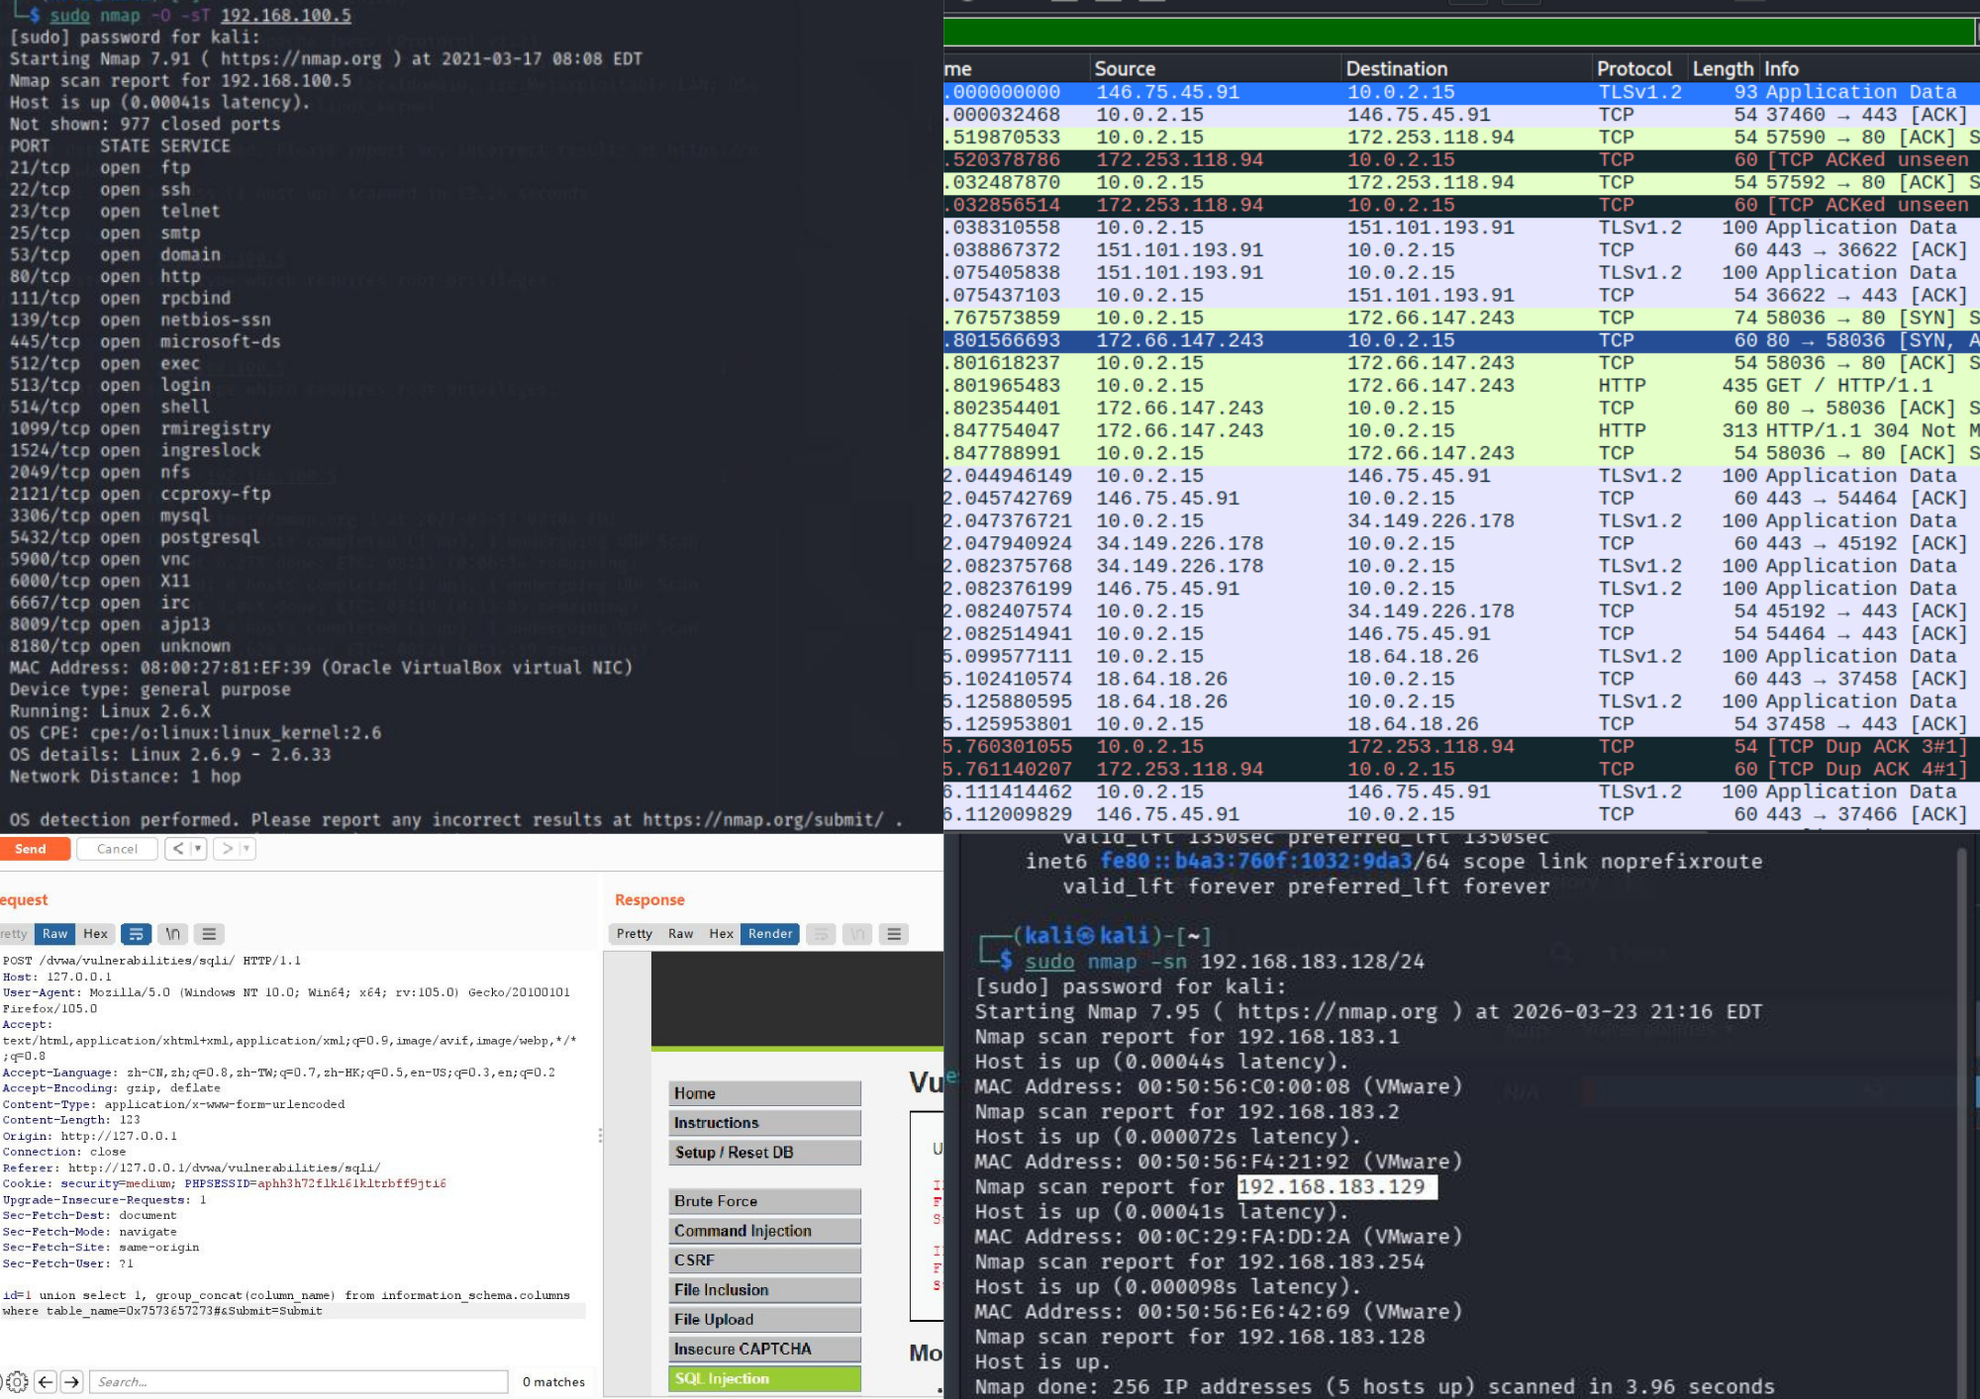
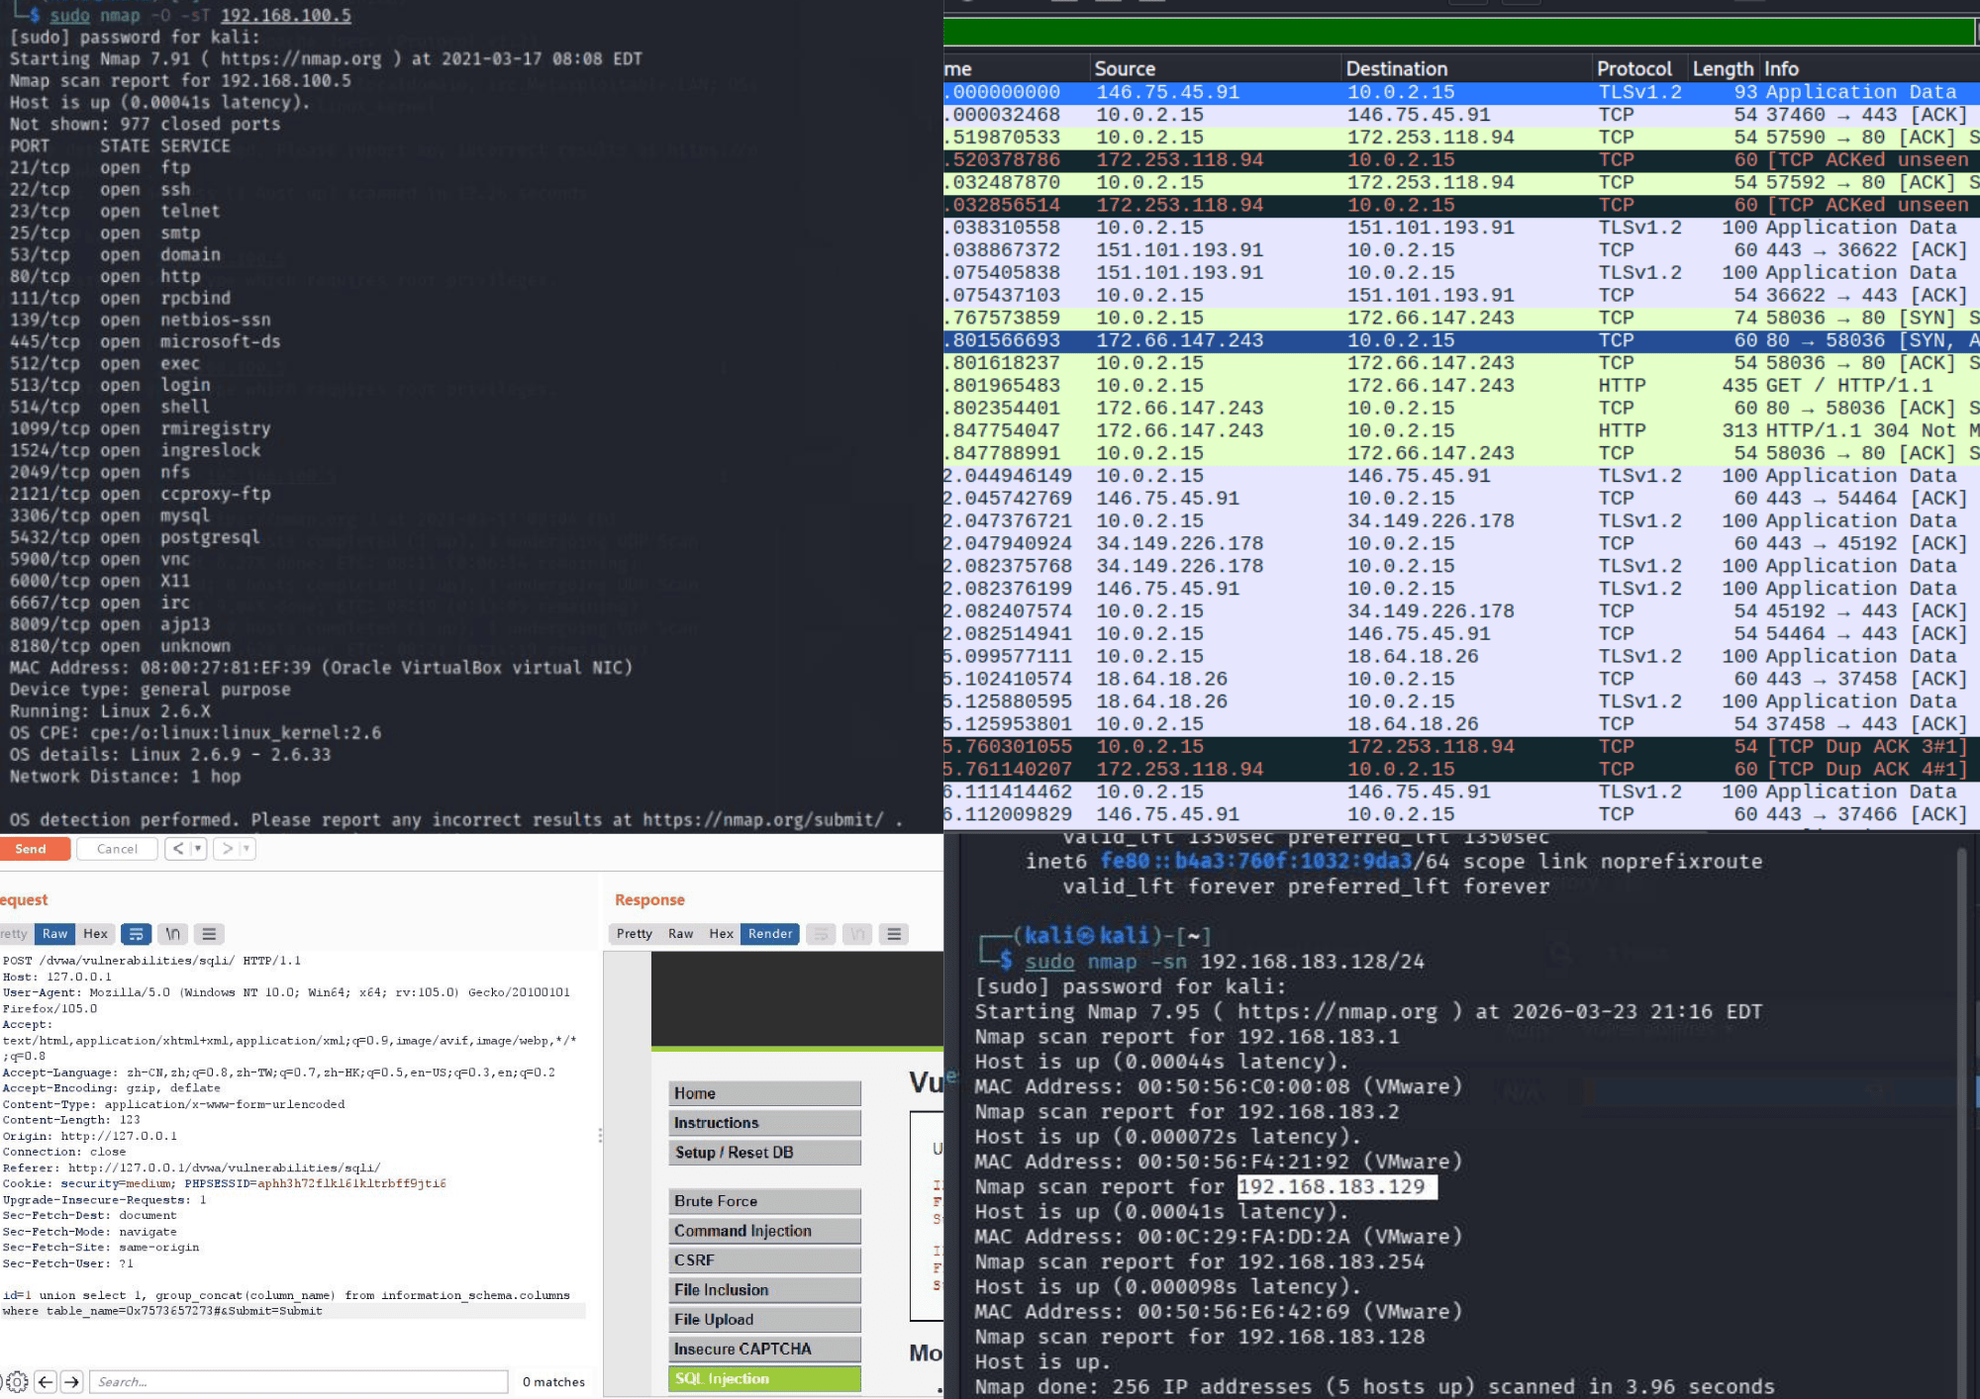
complete project and experiences section

Changed region(s): [[0.341, 0.9646, 0.372, 0.9958], [0.0, 0.5912, 0.031, 0.6223]]

diff --git a/src/components/Experience.jsx b/src/components/Experience.jsx
@@ -1,11 +1,21 @@
 import React from 'react';
-import { Calendar, GraduationCap, Briefcase } from 'lucide-react';
+import { GraduationCap, Gem, Building2 } from 'lucide-react';
 import { motion } from 'framer-motion';
 import { useLanguage } from '../context/LanguageContext';
 import { journeyData } from '../data/experience';
 
 export const Experience = () => {
-  const { lang, t } = useLanguage();
+  const { t } = useLanguage();
+
+  const getLogoBgClass = (exp) => {
+    if (exp.id === 'electratour' || exp.organization?.toLowerCase().includes('electra')) {
+      return 'bg-zinc-950 border-zinc-800';
+    }
+    if (exp.id === 'cipta-solutindo' || exp.organization?.toLowerCase().includes('cipta')) {
+      return 'bg-white border-zinc-200';
+    }
+    return 'bg-white dark:bg-zinc-900 border-zinc-200 dark:border-zinc-800';
+  };
 
   return (
     <section id="journey" className="py-24 border-t border-zinc-200 dark:border-zinc-800">
@@ -41,18 +51,18 @@ export const Experience = () => {
             </h2>
           </div>
           <p className="text-sm font-mono text-zinc-700 dark:text-zinc-400 mt-4 md:mt-0 max-w-md">
-            An honest reflection of academic learning, student engineering milestones, and web development experience.
+            An honest reflection of work experiences, software engineering milestones, and web development journey.
           </p>
         </motion.div>
 
         <div className="grid grid-cols-1 lg:grid-cols-12 gap-12 items-start">
           
-          {/* Main Timeline Column */}
+          {/* Main Timeline Column with Line & Dots */}
           <div className="lg:col-span-8 space-y-12">
-            <div className="relative border-l border-zinc-200 dark:border-zinc-800 pl-6 sm:pl-8 space-y-10">
+            <div className="relative border-l border-zinc-200 dark:border-zinc-800 pl-6 sm:pl-8 space-y-12">
               {journeyData.experiences.map((exp, idx) => (
                 <motion.div 
-                  key={idx} 
+                  key={exp.id || idx} 
                   initial={{ opacity: 0, x: -30 }}
                   whileInView={{ opacity: 1, x: 0 }}
                   viewport={{ once: true, margin: '-60px' }}
@@ -65,49 +75,87 @@ export const Experience = () => {
                     whileInView={{ scale: 1 }}
                     viewport={{ once: true }}
                     transition={{ duration: 0.4, delay: idx * 0.15 + 0.2 }}
-                    className="absolute -left-[31px] sm:-left-[39px] top-1.5 w-3 h-3 rounded-full bg-zinc-500 dark:bg-zinc-500 group-hover:bg-zinc-950 dark:group-hover:bg-zinc-100 group-hover:scale-125 transition-all duration-300" 
+                    className="absolute -left-[31px] sm:-left-[39px] top-2 w-3 h-3 rounded-full bg-zinc-400 dark:bg-zinc-600 group-hover:bg-zinc-950 dark:group-hover:bg-zinc-100 group-hover:scale-125 transition-all duration-300 ring-4 ring-white dark:ring-zinc-950" 
                   />
 
-                  <div className="space-y-2">
-                    <div className="flex flex-wrap items-center gap-3">
-                      <span className="inline-flex items-center space-x-1.5 px-2.5 py-0.5 text-xs font-mono rounded bg-zinc-100 dark:bg-zinc-800 text-zinc-800 dark:text-zinc-300 border border-zinc-200 dark:border-zinc-700">
-                        <Calendar className="w-3 h-3 text-zinc-600 dark:text-zinc-400" />
-                        <span>{exp.period}</span>
-                      </span>
-                      <span className="text-xs font-mono text-zinc-600 dark:text-zinc-400 uppercase font-medium">
-                        {exp.location}
-                      </span>
+                  <div className="space-y-4">
+                    {/* Header: Company Logo + Role & Organization */}
+                    <div className="flex items-start space-x-4">
+                      {/* Company Logo */}
+                      <div className={`w-12 h-12 sm:w-14 sm:h-14 rounded-xl border p-1 flex items-center justify-center flex-shrink-0 shadow-sm ${getLogoBgClass(exp)}`}>
+                        {exp.logo ? (
+                          <img 
+                            src={exp.logo} 
+                            alt={`${exp.organization} logo`} 
+                            className="w-full h-full object-contain rounded-lg"
+                          />
+                        ) : (
+                          <Building2 className="w-6 h-6 text-zinc-400" />
+                        )}
+                      </div>
+
+                      {/* Role & Company Header */}
+                      <div className="flex-1 min-w-0">
+                        <h3 className="text-xl sm:text-2xl font-bold text-zinc-950 dark:text-zinc-50 leading-tight">
+                          {t(exp.role)}
+                        </h3>
+                        
+                        <div className="text-sm font-semibold text-zinc-800 dark:text-zinc-200 flex flex-wrap items-center gap-1.5 mt-0.5">
+                          <span>{exp.organization}</span>
+                          {exp.employmentType && (
+                            <>
+                              <span className="text-zinc-400">•</span>
+                              <span className="text-zinc-600 dark:text-zinc-400 font-normal">{t(exp.employmentType)}</span>
+                            </>
+                          )}
+                        </div>
+
+                        <div className="text-xs font-mono text-zinc-500 dark:text-zinc-400 mt-1 space-y-0.5">
+                          <div>{exp.period}</div>
+                          <div>{exp.location}</div>
+                        </div>
+                      </div>
                     </div>
 
-                    <h3 className="text-xl sm:text-2xl font-bold text-zinc-950 dark:text-zinc-50">
-                      {t(exp.role)}
-                    </h3>
+                    {/* Highlights / Bullet points */}
+                    {exp.highlights && exp.highlights.length > 0 && (
+                      <ul className="space-y-1.5 text-sm text-zinc-700 dark:text-zinc-300 pt-1">
+                        {exp.highlights.map((item, i) => (
+                          <li key={i} className="flex items-start space-x-2.5">
+                            <span className="text-zinc-400 dark:text-zinc-500 select-none mt-0.5">•</span>
+                            <span className="leading-relaxed">{item}</span>
+                          </li>
+                        ))}
+                      </ul>
+                    )}
 
-                    <p className="text-sm font-semibold text-zinc-900 dark:text-zinc-200">
-                      {exp.organization}
-                    </p>
-
-                    <p className="text-xs font-mono text-zinc-700 dark:text-zinc-400">
-                      Focus: {t(exp.focus)}
-                    </p>
-
-                    <p className="text-sm text-zinc-800 dark:text-zinc-300 pt-2 leading-relaxed">
-                      {t(exp.description)}
-                    </p>
+                    {/* Skills Badges */}
+                    {exp.skills && exp.skills.length > 0 && (
+                      <div className="pt-2 flex items-center space-x-2 text-xs font-mono text-zinc-600 dark:text-zinc-400">
+                        <Gem className="w-3.5 h-3.5 text-zinc-500 dark:text-zinc-400 flex-shrink-0" />
+                        <div className="flex flex-wrap items-center gap-1.5">
+                          {exp.skills.map((skill, i) => (
+                            <span key={i} className="px-2 py-0.5 rounded bg-zinc-100 dark:bg-zinc-800/80 text-zinc-700 dark:text-zinc-300 text-[11px] font-medium border border-zinc-200 dark:border-zinc-700/60">
+                              {skill}
+                            </span>
+                          ))}
+                        </div>
+                      </div>
+                    )}
                   </div>
                 </motion.div>
               ))}
             </div>
           </div>
 
-          {/* Education Card Sidebar */}
+          {/* Education Card Sidebar - KEPT UNTOUCHED */}
           <motion.div 
             initial={{ opacity: 0, y: 40, scale: 0.96 }}
             whileInView={{ opacity: 1, y: 0, scale: 1 }}
             viewport={{ once: true, margin: '-60px' }}
             transition={{ duration: 0.8, delay: 0.2, ease: [0.16, 1, 0.3, 1] }}
             whileHover={{ y: -4 }}
-            className="lg:col-span-4 bg-zinc-100/60 dark:bg-zinc-900/50 p-6 sm:p-8 rounded-lg border border-zinc-200 dark:border-zinc-800 space-y-6 hover:border-zinc-400 dark:hover:border-zinc-700 transition-colors duration-300 shadow-sm hover:shadow-md"
+            className="lg:col-span-4 bg-zinc-100/60 dark:bg-zinc-900/50 p-6 sm:p-8 rounded-lg border border-zinc-200 dark:border-zinc-800 space-y-6 hover:border-zinc-400 dark:hover:border-zinc-700 transition-colors duration-300 shadow-sm hover:shadow-md sticky top-24"
           >
             <div className="flex items-center space-x-2 text-xs font-mono uppercase tracking-widest text-zinc-600 dark:text-zinc-400 font-semibold">
               <GraduationCap className="w-4 h-4 text-zinc-600 dark:text-zinc-400" />

diff --git a/src/data/experience.js b/src/data/experience.js
@@ -1,38 +1,98 @@
 export const journeyData = {
   experiences: [
     {
-      period: "2026 — Present",
+      id: "nomimono",
       role: {
-        id: "Software Engineering Student",
-        en: "Software Engineering Student"
+        id: "Frontend Developer",
+        en: "Frontend Developer"
       },
-      organization: "Universitas Pignatelli Triputra",
-      location: "Indonesia",
-      focus: {
-        id: "Software Engineering, Web Development, Cybersecurity, AI",
-        en: "Software Engineering, Web Development, Cybersecurity, AI"
+      organization: "Nomimono Group",
+      employmentType: {
+        id: "Freelance",
+        en: "Freelance"
       },
-      description: {
-        id: "Membangun fondasi akademik dan kemampuan praktis melalui perkuliahan, eksplorasi mandiri, pembuatan lab, serta eksperimen project.",
-        en: "Building core academic foundations and practical engineering skills through coursework, self-directed exploration, lab builds, and project experiments."
-      }
+      logo: "/images/companies/logo-nomi.jpg",
+      period: "Feb 2026 - Mar 2026 · 2 mos",
+      location: "Surakarta, Central Java, Indonesia · Remote",
+      highlights: [
+        "Developed and implemented user interface for F&B website",
+        "Built responsive menu display and ordering pages",
+        "Improved user experience (UX) and interface performance",
+        "Ensured cross-device compatibility and responsive design"
+      ],
+      skills: ["Cascading Style Sheets (CSS)", "HTML", "JavaScript"]
     },
     {
-      period: "2026 — Present",
+      id: "electratour",
       role: {
-        id: "Web Developer",
-        en: "Web Developer"
+        id: "Full Stack Developer",
+        en: "Full Stack Developer"
       },
-      organization: "C.V. Cipta Solutindo",
-      location: "Indonesia",
-      focus: {
-        id: "Web Development",
-        en: "Web Development"
+      organization: "Electratour",
+      employmentType: {
+        id: "Full-time",
+        en: "Full-time"
       },
-      description: {
-        id: "Mengembangkan dan memelihara aplikasi web sesuai dengan kebutuhan bisnis dan standar pengembangan.",
-        en: "Developing and maintaining web applications according to business requirements and web development standards."
-      }
+      logo: "/images/companies/Logo Electra Dolan Yuk.png",
+      period: "Jul 2025 - Oct 2025 · 4 mos",
+      location: "Surakarta, Central Java, Indonesia · On-site",
+      highlights: [
+        "Developed and maintained a travel booking website",
+        "Built booking system and admin dashboard",
+        "Designed and managed relational database using MySQL",
+        "Developed REST APIs for frontend–backend integration",
+        "Optimized queries and improved system performance"
+      ],
+      skills: ["JavaScript", "Pemecahan Masalah", "MySQL", "REST API", "Laravel", "PHP"]
+    },
+    {
+      id: "fotopedia",
+      role: {
+        id: "Full Stack Developer",
+        en: "Full Stack Developer"
+      },
+      organization: "Fotopedia Creative",
+      employmentType: {
+        id: "Full-time",
+        en: "Full-time"
+      },
+      logo: "/images/companies/Fotopedia Creative.png",
+      period: "Jul 2025 - Oct 2025 · 4 mos",
+      location: "Surakarta, Central Java, Indonesia · On-site",
+      highlights: [
+        "Built CMS for photo and service management",
+        "Implemented authentication and user role management",
+        "Designed and managed database schema using MySQL",
+        "Developed a photography service website with online booking system"
+      ],
+      skills: ["Cascading Style Sheets (CSS)", "HTML", "CMS", "JavaScript"]
+    },
+    {
+      id: "cipta-solutindo",
+      role: {
+        id: "Full Stack Developer",
+        en: "Full Stack Developer"
+      },
+      organization: "CV. CIPTA SOLUTINDO",
+      employmentType: {
+        id: "Internship",
+        en: "Internship"
+      },
+      logo: "/images/companies/logo-cipta.png",
+      period: "Sep 2024 - Feb 2025 · 6 mos",
+      location: "Sukoharjo, Central Java, Indonesia · On-site",
+      highlights: [
+        "Designed and managed relational database using MySQL",
+        "Developed multiple web-based applications using Laravel",
+        "Built CRUD-based cashier (POS) system for transaction and sales management",
+        "Developed cooperative management system for member and financial data processing",
+        "Created web-based complaint reporting system",
+        "Implemented authentication and role-based access control",
+        "Developed RESTful APIs for system integration",
+        "Built gallery application using Flutter for media and content display",
+        "Performed system testing, debugging, and performance optimization"
+      ],
+      skills: ["Laravel", "PHP", "MySQL", "Web Development", "Flutter", "RESTful API"]
     }
   ],
 

diff --git a/src/data/projects.js b/src/data/projects.js
@@ -34,7 +34,7 @@ export const projectsData = [
       en: "Completed / Maintained"
     },
     technologies: ["PHP", "HTML5", "CSS3", "JavaScript", "MySQL"],
-    image: "/images/projects/faculty-website.webp",
+    image: "/images/projects/thumb-fakultas.png",
     githubUrl: "https://github.com/placeholder/faculty-website",
     liveDemoUrl: null,
     featured: true
@@ -52,7 +52,7 @@ export const projectsData = [
       en: "Personal Project / Experimental"
     },
     technologies: ["Python", "SpeechRecognition", "PyAudio", "OS Automation", "CLI"],
-    image: "/images/projects/alexa.webp",
+    image: "/images/projects/thumb-alexa.png",
     githubUrl: "https://github.com/placeholder/alexa-assistant",
     liveDemoUrl: null,
     featured: true
@@ -92,6 +92,28 @@ export const projectsData = [
     technologies: ["Flutter", "Dart", "Mobile UI", "State Management"],
     image: "/images/projects/thumb-pixelnest.png",
     githubUrl: "https://github.com/placeholder/pixelnest",
+    liveDemoUrl: null,
+    featured: true
+  },
+  {
+    id: "06",
+    title: "ElectraTour",
+    category: "Web Development / Travel",
+    role: {
+      id: "Fullstack Web Developer",
+      en: "Fullstack Web Developer"
+    },
+    description: {
+      id: "Website travel yang menyediakan jasa perjalanan domestik dan internasional serta layanan pengurusan visa, dibangun menggunakan Laravel.",
+      en: "A travel website providing domestic and international travel services as well as visa application services, built with Laravel."
+    },
+    status: {
+      id: "Completed / Production",
+      en: "Completed / Production"
+    },
+    technologies: ["Laravel", "PHP", "Tailwind CSS", "MySQL", "JavaScript"],
+    image: "/images/projects/thumb-electra.png",
+    githubUrl: "https://github.com/placeholder/electratour",
     liveDemoUrl: null,
     featured: true
   }

diff --git a/src/components/ProjectModal.jsx b/src/components/ProjectModal.jsx
@@ -128,19 +128,8 @@ export const ProjectModal = ({ project, onClose }) => {
           </div>
 
           {/* Modal Footer Links */}
-          <div className="p-6 border-t border-zinc-200 dark:border-zinc-800 flex items-center justify-end space-x-4 bg-zinc-100/50 dark:bg-zinc-950/50">
-            {project.githubUrl && (
-              <a
-                href={project.githubUrl}
-                target="_blank"
-                rel="noopener noreferrer"
-                className="inline-flex items-center space-x-2 text-xs font-mono uppercase font-medium text-zinc-800 dark:text-zinc-300 hover:text-zinc-950 dark:hover:text-zinc-50 transition-colors"
-              >
-                <GithubIcon className="w-4 h-4" />
-                <span>GitHub Repository</span>
-              </a>
-            )}
-            {project.liveDemoUrl && (
+          {project.liveDemoUrl && (
+            <div className="p-6 border-t border-zinc-200 dark:border-zinc-800 flex items-center justify-end space-x-4 bg-zinc-100/50 dark:bg-zinc-950/50">
               <a
                 href={project.liveDemoUrl}
                 target="_blank"
@@ -150,8 +139,8 @@ export const ProjectModal = ({ project, onClose }) => {
                 <span>Live Demo</span>
                 <ExternalLink className="w-3.5 h-3.5" />
               </a>
-            )}
-          </div>
+            </div>
+          )}
         </motion.div>
       </motion.div>
     </AnimatePresence>
